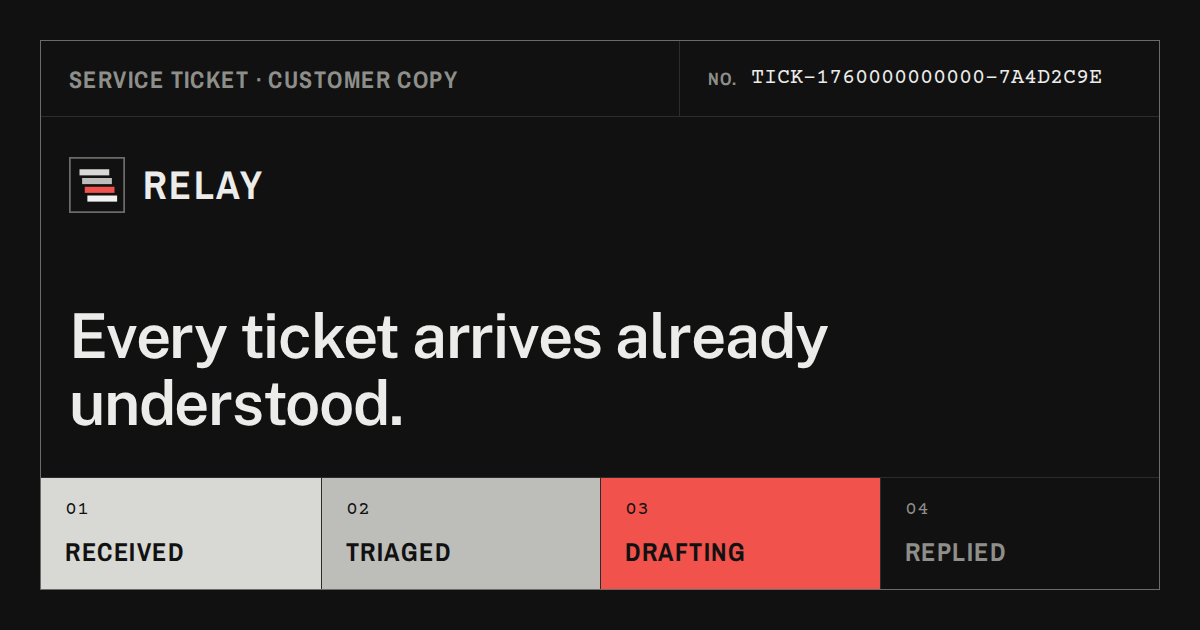
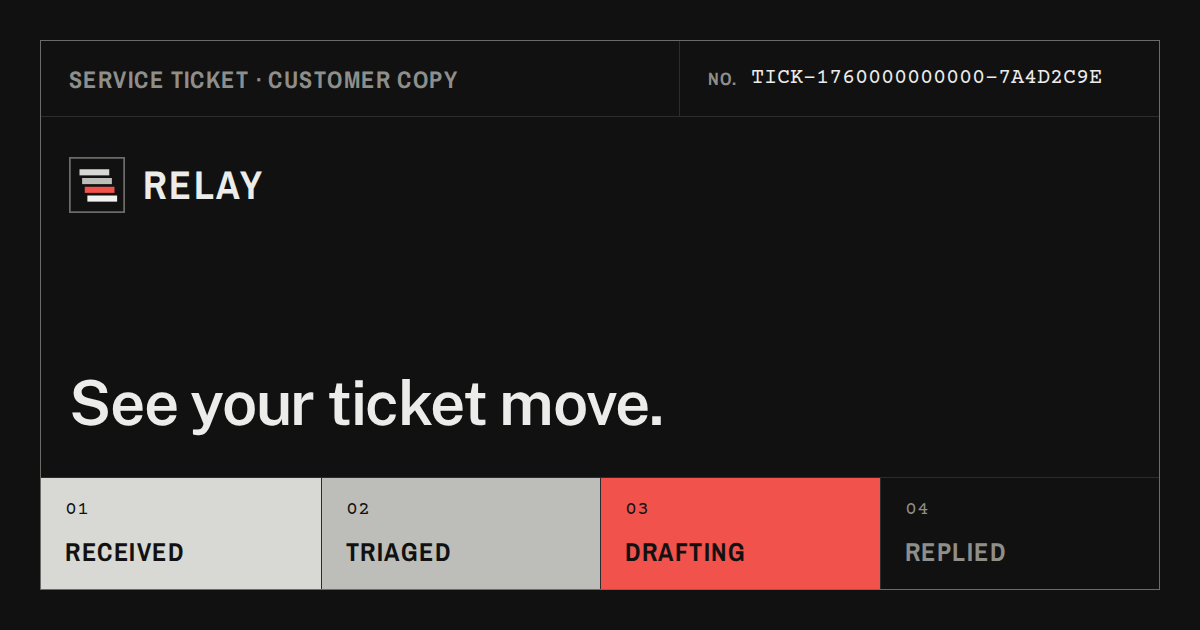
feat(web): rewrite landing headline and meta copy
Positions Relay on transparency: the ticket is watched as it moves
through received, triaged, drafted and replied. Drops the portfolio
footer wording; the footer prints the tagline. Re-renders og-image.png
from the new description.

Changed region(s): [[0.0617, 0.4825, 0.7092, 0.6937]]

diff --git a/web/src/config/brand.ts b/web/src/config/brand.ts
@@ -4,16 +4,15 @@
 export const brand = {
   name: 'Relay',
   tagline: 'AI help desk',
-  headline: 'Every ticket arrives already understood.',
+  headline: 'See your ticket move.',
   subline:
-    'Relay reads each request the moment it lands, sorts it by category and urgency, and drafts a reply — while your customer watches it happen.',
+    'Relay files every request as a service ticket. You see it received, triaged, drafted and replied, each stage stamped as it happens, on one page you can come back to.',
   // Meta description and social-card copy (also the OG image text).
   description:
-    'Relay reads each support request the moment it lands, sorts it by category and urgency, and drafts a reply while your customer watches.',
+    'Relay files every support request as a service ticket you can watch: received, triaged, drafted and replied, each stage stamped as it happens.',
   // Browser UI colour: the carbon ground (primitive.color.carbon in web/tokens/colors.json).
   // A meta tag needs a literal; tests/web-tokens.guard.test.ts keeps it equal to the token.
   themeColor: '#111111', // ds-allow-hardcode: <meta name="theme-color"> cannot read CSS variables
-  footer: 'a portfolio project',
   // Where the legal pages point people who have a question. Update with the repo rename (7.12).
   repoUrl: 'https://github.com/ToshifurRahman/ticket-pipe',
 } as const;

diff --git a/web/src/components/landing/demo-script.ts b/web/src/components/landing/demo-script.ts
@@ -8,7 +8,7 @@ export const DEMO_SUBJECT = 'Charged twice for October';
 export const DEMO_REFERENCE = 'TICK-1760000000000-7A4D2C9E';
 export const DEMO_MESSAGE = 'My card was charged twice for the October invoice. Can you refund the duplicate?';
 export const DEMO_REPLY =
-  'Sorry about that — a duplicate charge shouldn’t happen. We’ve flagged the second October payment for a refund to the same card. You’ll see it back within a few business days, and we’ll confirm here once it’s issued.';
+  'Sorry about that, a duplicate charge shouldn’t happen. We’ve flagged the second October payment for a refund to the same card. You’ll see it back within a few business days, and we’ll confirm here once it’s issued.';
 
 const BADGES = { category: 'billing', priority: 'high' };
 

diff --git a/web/src/components/site-footer.tsx b/web/src/components/site-footer.tsx
@@ -7,7 +7,7 @@ export function SiteFooter() {
     <footer className="border-t bg-background">
       <div className="mx-auto flex max-w-6xl flex-wrap items-center justify-between gap-3 px-4 py-6 text-muted-foreground sm:px-6">
         <span className="label-caps text-xs">
-          © {brand.name} · {brand.footer}
+          © {brand.name} · {brand.tagline}
         </span>
         <nav className="flex gap-5" aria-label="Legal">
           <Link to="/privacy" className="label-caps text-xs text-muted-foreground no-underline hover:text-foreground">
